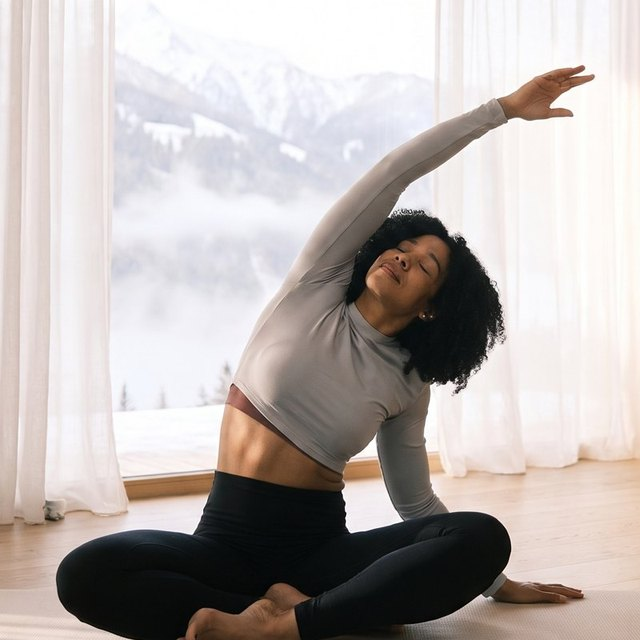
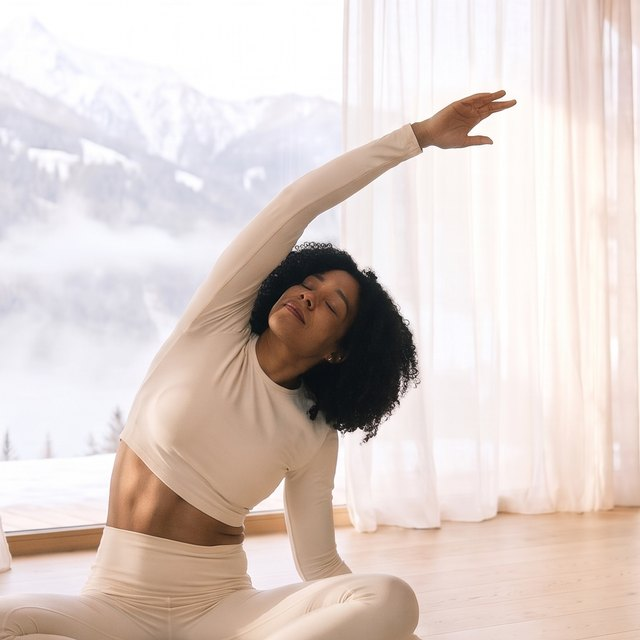
Movecia: Über-mich- und Profilfoto im cremefarbenen Outfit
Claude-Session: https://claude.ai/code/session_01NPiwcCwaP9BTNNPx1ivuNy

diff --git a/wildhearts/index.html b/wildhearts/index.html
@@ -158,7 +158,7 @@ html[lang=de] .en,html[lang=en] .de{display:none!important}
   </div>
 
   <header class="head">
-    <div class="avatar"><img src="/img/movecia/fotos/ev-profil.jpg?v=1" alt="Vivien Malonga" width="296" height="296"><span class="dot" aria-hidden="true"></span></div>
+    <div class="avatar"><img src="/img/movecia/fotos/ev-profil.jpg?v=2" alt="Vivien Malonga" width="296" height="296"><span class="dot" aria-hidden="true"></span></div>
     <p class="k">Mindful Movement · Yoga · Somatic · Breathwork</p>
     <h1>Vivien Malonga</h1>
     <p class="sub"><span class="de">Bewegung beginnt bei dir.</span><span class="en">Movement begins with you.</span></p>

diff --git a/wildhearts/app/sw.js b/wildhearts/app/sw.js
@@ -3,7 +3,7 @@
    Schriften, Bilder und Styles werden zwischengespeichert und im Hintergrund aktualisiert.
    Buchungen, Zahlungen, Videoräume, Videos und die Verwaltung laufen nie über diesen Zwischenspeicher.
    Bei größeren Bild- oder Style-Änderungen VERSION hochzählen. */
-var VERSION = 'movecia-v17';
+var VERSION = 'movecia-v18';
 var STATIC = /^\/(fonts|img|wildhearts\/assets)\//;
 var SKIP = /^\/(api|verwaltung|video|tools|downloads|natal\/raum|unfold\/call|gathering)(\/|$)/;
 

diff --git a/wildhearts/start/index.php b/wildhearts/start/index.php
@@ -118,7 +118,7 @@ mvl_head('Movecia · Mindful Movement, Yoga & Somatic Movement mit Vivien Malong
 </div></section>
 
 <section class="w sec" id="vivien"><div class="in about">
-  <div class="art arch tall rv"><img src="/img/movecia/fotos/ev-ueber-mich.jpg?v=1" alt="Vivien beim Seitstretch in ihrem Studio mit Bergblick" loading="lazy"></div>
+  <div class="art arch tall rv"><img src="/img/movecia/fotos/ev-ueber-mich.jpg?v=2" alt="Vivien beim Seitstretch in ihrem Studio mit Bergblick" loading="lazy"></div>
   <div class="rv">
     <p class="k"><span class="de">Hallo, ich bin Vivien</span><span class="en">Hi, I'm Vivien</span></p>
     <h2 style="margin-top:.6rem"><span class="de">Mama von vier Kindern, <em>Bewegungstrainerin</em> und Frau, die selbst neu anfangen musste.</span><span class="en">Mother of four, <em>movement teacher</em> and a woman who had to begin again herself.</span></h2>

diff --git a/CLAUDE.md b/CLAUDE.md
@@ -334,7 +334,7 @@ Website des FORMA Töpferstudios (Vivien Malonga) unter www.forma-pottery.com.
 ## Movecia · Ein Zugang = eine Person, Medien-Schutz (Vivien, 26.10.2026)
 - Fotos/Videos nicht speicherbar: `wildhearts/assets/schutz.js` in jedem Movecia-Kopf (kein Langdruck-Menü, kein Rechtsklick/Ziehen, Videos ohne Download/Bild-im-Bild), `.htaccess` sperrt den Direktaufruf von `video/movecia/*.mp4` und `img/movecia/fotos/*` als eigene Seite (Sec-Fetch-Dest: document). Bildschirmfotos lassen sich im Browser nicht verhindern.
 - Geteilte Zugänge (`api/mm-devices.inc.php`, Tabelle `mm_devices`, Cookie `mvdev`): jede Anmeldung = eigenes Gerät, höchstens 3 Geräte (ältestes fliegt raus, Hinweis auf der Anmeldeseite), nur ein Gerät gleichzeitig aktiv: `wildhearts/assets/geraet.js` (Mitgliederbereich Method/Unfold, Unfold-Call, Prä-/Postnatal-Mitgliederbereich) pingt `api/mm-device.php` alle 25 s; läuft der Zugang woanders, erscheint „Dein Zugang … kann nicht mit anderen Personen geteilt werden“ mit „Hier weitermachen“ (das andere Gerät pausiert). Verwaltung → Movecia → Übersicht zeigt „Vielleicht geteilte Zugänge“ (≥ 5 Geräte, ≥ 4 Orte oder ≥ 4× verdrängt in 30 Tagen).
-- Hauptseite: Bereich unter dem Pflaume-Band zeigt nur das Tanz-Video (`unfold.mp4`, leicht verwischt per Bewegungsspur, kein starker Weichzeichner) mit Linie ankommen · Movecia-Zeichen + spüren · entfalten. Fotos bleiben unbearbeitet (Vivien mag starken Blur nicht). Über-mich-Foto `ev-ueber-mich.jpg`, Method-Karte `ev-method-foto.jpg` (von Vivien gewählt).
+- Hauptseite: Bereich unter dem Pflaume-Band zeigt nur das Tanz-Video (`unfold.mp4`, leicht verwischt per Bewegungsspur, kein starker Weichzeichner) mit Linie ankommen · Movecia-Zeichen + spüren · entfalten. Fotos bleiben unbearbeitet (Vivien mag starken Blur nicht). Über-mich-Foto `ev-ueber-mich.jpg` (seit 27.10.2026 Seitstretch im cremefarbenen Outfit, Everygen-Bearbeitung, auch `ev-profil.jpg` im Link in Bio), Method-Karte `ev-method-foto.jpg` (von Vivien gewählt).
 - „Nur für dich“ (Vivien, 26.10.2026; Wasserzeichen auf ihren Wunsch wieder entfernt): `wildhearts/assets/wasserzeichen.js`, nur im Mitgliederbereich (Vivien, 26.10.2026: öffentliche Seiten sollen frei teilbar bleiben). Bildschirmfoto-Tasten am Computer (Druck, Cmd+Shift+3/4/5, Win+Shift+S) → Seite verschwommen + Fenster „Liebe <Vorname bzw. du>, dieser Inhalt ist nur für dich bestimmt …“ mit Affirmation, „Zurück zu mir“. Zum Ausprobieren `/mitglieder/?demo=1&nurfuerdich=1`. Im Mitgliederbereich (`mm_wm_script`, data-nocopy) mit Vorname und ohne Kopieren der Texte (Journal frei). Am Handy melden Systeme Bildschirmfotos/-aufnahmen keiner Website. Datenschutz /terms „Schutz der Inhalte“ = nur Geräte-Angaben (max. 90 Tage).
 
 ## Movecia · 1:1 Personal Training Anfragen (Vivien, 26.10.2026)
